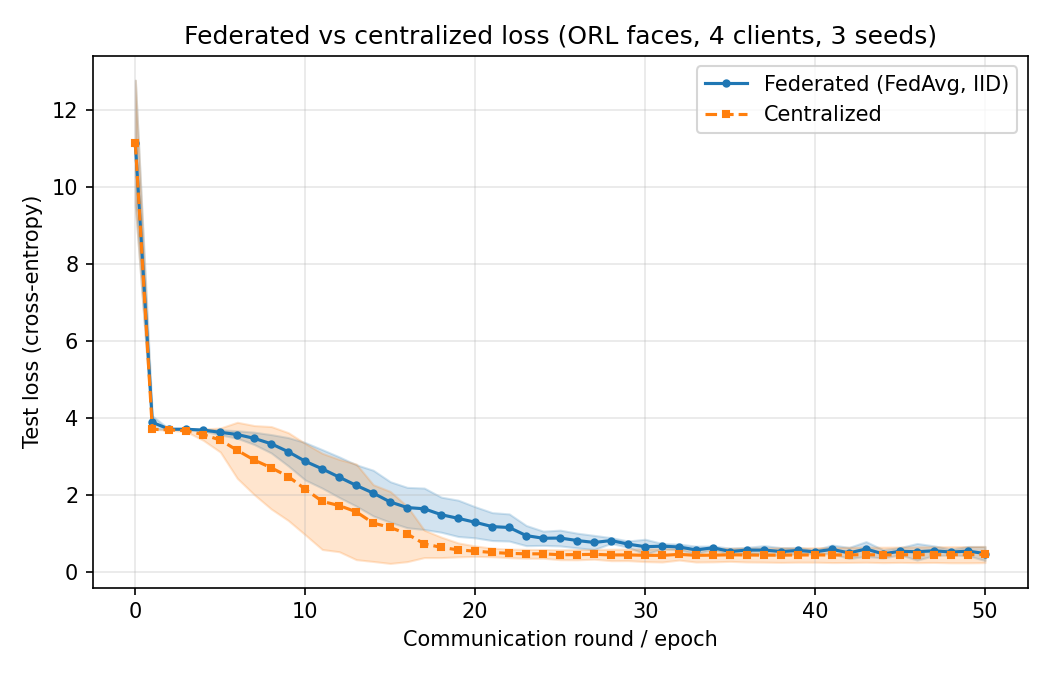
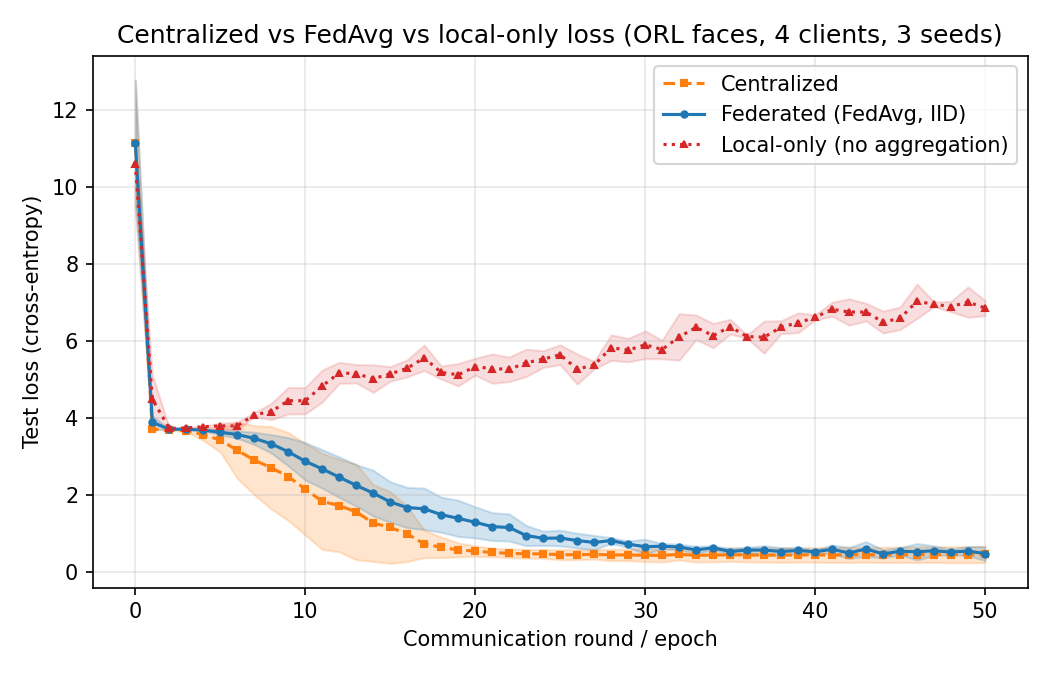
feat(fl): add a local-only lower bound to the convergence baselines
The convergence figure compared FedAvg only against centralized, which
shows FedAvg does no harm but not what it buys. Add train_local_only --
each client trains on its own shard and never aggregates -- as the lower
bound. The three baselines now bracket the value of federation:
centralized 0.91 >= FedAvg 0.89 >> local-only 0.53, so the ~36 pp
FedAvg-vs-local-only gap is the payoff of aggregation. fl_training.csv
gains local_accuracy/loss columns; the attack snapshots are unchanged.

diff --git a/src/federated.py b/src/federated.py
@@ -201,6 +201,74 @@ def train_centralized(
     return {"history": history, "state": {k: v.detach().cpu() for k, v in model.state_dict().items()}}
 
 
+def train_local_only(
+    num_rounds: int = 50,
+    num_clients: int = 4,
+    local_epochs: int = 1,
+    lr: float = 0.01,
+    device: torch.device | str | None = None,
+    batch_size: int = 8,
+    num_classes: int = 40,
+    img_size: int = 32,
+    seed: int = 0,
+    optimizer: str = "adam",
+    verbose: bool = True,
+) -> dict:
+    """Each client trains ONLY on its own shard and never aggregates.
+
+    This is the lower-bound baseline that quantifies the *value* of federation: a
+    participant who keeps its data local but also refuses to collaborate. Every
+    client starts from one shared init (the same kind the FedAvg server uses) and
+    runs the same per-round local training as in FedAvg, but the weights are never
+    averaged. We report the mean over clients of the global-test accuracy each
+    round, so the convergence figure can show ``centralized >= FedAvg >> local-only``
+    -- i.e. FedAvg recovers most of the centralized accuracy a lone client (with
+    only its 1/num_clients slice of the data) cannot reach on its own.
+    """
+    device = torch.device(device) if device is not None else get_device()
+    torch.manual_seed(seed)
+
+    full = load_orl_dataset(img_size=img_size)
+    train_set, test_set = train_test_split(full, seed=seed)
+    shards = split_iid(train_set, num_clients=num_clients, seed=seed)
+    test_loader = get_test_loader(test_set, batch_size=32)
+
+    clients = [
+        FLClient(
+            i, shard, LeNet, device,
+            batch_size=batch_size, num_classes=num_classes, optimizer=optimizer,
+        )
+        for i, shard in enumerate(shards)
+    ]
+    # One shared starting point for every client, so the only difference from
+    # FedAvg is the absence of aggregation.
+    init_state = {k: v.detach().cpu().clone() for k, v in LeNet(num_classes=num_classes).state_dict().items()}
+    for client in clients:
+        client.update_model(init_state)
+
+    def mean_metrics() -> tuple[float, float]:
+        accs, losses = [], []
+        for client in clients:
+            acc, loss = evaluate(client.model, test_loader, device)
+            accs.append(acc)
+            losses.append(loss)
+        return sum(accs) / len(accs), sum(losses) / len(losses)
+
+    history: list[dict] = []
+    acc, loss = mean_metrics()
+    history.append({"round": 0, "accuracy": acc, "loss": loss})
+    for rnd in range(1, num_rounds + 1):
+        for client in clients:
+            # No update_model(): each client keeps and extends its own weights.
+            client.train_one_round(local_epochs=local_epochs, lr=lr)
+        acc, loss = mean_metrics()
+        history.append({"round": rnd, "accuracy": acc, "loss": loss})
+        if verbose and (rnd % 5 == 0 or rnd == 1):
+            print(f"[local] round {rnd:2d} | mean client acc {acc:.4f} | loss {loss:.4f}")
+
+    return {"history": history}
+
+
 def run_federated_learning_he(
     num_rounds: int = 5,
     num_clients: int = 4,

diff --git a/experiments/run_fl.py b/experiments/run_fl.py
@@ -4,9 +4,11 @@ Usage:
     uv run python experiments/run_fl.py
 
 Three things are produced:
-  * Convergence  - FedAvg (IID) vs centralized, averaged over several seeds so the
-    curves carry a mean +/- std band (a single seed makes the two indistinguishable
-    and can even put FedAvg above centralized by test-set noise).
+  * Convergence  - centralized vs FedAvg (IID) vs local-only, averaged over several
+    seeds so the curves carry a mean +/- std band. The three bracket the value of
+    federation: centralized (data pooled, upper bound) >= FedAvg (data local,
+    updates averaged) >> local-only (data local AND never aggregated, lower bound).
+    The FedAvg-vs-local-only gap is what aggregation actually buys.
   * Non-IID      - FedAvg under an IID split vs a pathological label-partition split
     (each client owns a disjoint block of subjects), swept over the number of local
     epochs. This surfaces client drift: at one local epoch the two splits are
@@ -42,7 +44,12 @@ import torch
 
 sys.path.insert(0, str(Path(__file__).resolve().parent.parent))
 
-from src.federated import get_device, run_federated_learning, train_centralized
+from src.federated import (
+    get_device,
+    run_federated_learning,
+    train_centralized,
+    train_local_only,
+)
 
 NUM_ROUNDS = 50
 NUM_CLIENTS = 4
@@ -85,8 +92,15 @@ def _stack(histories: list[list[dict]], key: str) -> tuple[np.ndarray, np.ndarra
 
 
 def run_convergence(device) -> pd.DataFrame:
-    """FedAvg (IID) vs centralized over several seeds; also save seed-0 snapshots."""
-    fl_histories, central_histories = [], []
+    """FedAvg (IID) vs centralized vs local-only over several seeds; also save snapshots.
+
+    Three baselines bracket the value of federation: ``centralized`` (data pooled,
+    the upper bound), ``FedAvg`` (data stays local, updates are averaged), and
+    ``local-only`` (data stays local AND never aggregated, the lower bound -- mean
+    over clients each trained on its own 1/num_clients slice). The gap
+    centralized >= FedAvg >> local-only is exactly what FedAvg buys.
+    """
+    fl_histories, central_histories, local_histories = [], [], []
     snapshots_by_seed: dict[int, dict] = {}
     global_state = None
     for seed in SEEDS:
@@ -96,20 +110,28 @@ def run_convergence(device) -> pd.DataFrame:
             lr=LR, device=device, seed=seed, snapshot_rounds=snap_rounds, verbose=False,
         )
         central = train_centralized(num_epochs=NUM_ROUNDS, lr=LR, device=device, seed=seed, verbose=False)
+        local = train_local_only(
+            num_rounds=NUM_ROUNDS, num_clients=NUM_CLIENTS, local_epochs=LOCAL_EPOCHS,
+            lr=LR, device=device, seed=seed, verbose=False,
+        )
         fl_histories.append(fl["history"])
         central_histories.append(central["history"])
+        local_histories.append(local["history"])
         if seed in SNAPSHOT_SEEDS:
             snapshots_by_seed[seed] = fl["snapshots"]
         if seed == SEEDS[0]:
             global_state = fl["global_state"]
         print(f"[fl] seed {seed}: FL={fl['history'][-1]['accuracy']:.4f}  "
-              f"centralized={central['history'][-1]['accuracy']:.4f}")
+              f"centralized={central['history'][-1]['accuracy']:.4f}  "
+              f"local-only={local['history'][-1]['accuracy']:.4f}")
 
     rounds = [h["round"] for h in fl_histories[0]]
     fl_acc_m, fl_acc_s = _stack(fl_histories, "accuracy")
     fl_loss_m, fl_loss_s = _stack(fl_histories, "loss")
     c_acc_m, c_acc_s = _stack(central_histories, "accuracy")
     c_loss_m, c_loss_s = _stack(central_histories, "loss")
+    l_acc_m, l_acc_s = _stack(local_histories, "accuracy")
+    l_loss_m, l_loss_s = _stack(local_histories, "loss")
 
     df = pd.DataFrame({
         "round": rounds,
@@ -117,19 +139,23 @@ def run_convergence(device) -> pd.DataFrame:
         "fl_loss_mean": fl_loss_m, "fl_loss_std": fl_loss_s,
         "central_accuracy_mean": c_acc_m, "central_accuracy_std": c_acc_s,
         "central_loss_mean": c_loss_m, "central_loss_std": c_loss_s,
+        "local_accuracy_mean": l_acc_m, "local_accuracy_std": l_acc_s,
+        "local_loss_mean": l_loss_m, "local_loss_std": l_loss_s,
     })
     df.to_csv(METRICS / "fl_training.csv", index=False)
     print(f"[fl] wrote {METRICS / 'fl_training.csv'}")
 
     # Accuracy curve with mean +/- std bands.
     plt.figure(figsize=(7, 4.5))
+    plt.plot(rounds, c_acc_m, "--s", ms=3, color="tab:orange", label="Centralized (data pooled, upper bound)")
+    plt.fill_between(rounds, c_acc_m - c_acc_s, c_acc_m + c_acc_s, color="tab:orange", alpha=0.2)
     plt.plot(rounds, fl_acc_m, "-o", ms=3, color="tab:blue", label="Federated (FedAvg, IID)")
     plt.fill_between(rounds, fl_acc_m - fl_acc_s, fl_acc_m + fl_acc_s, color="tab:blue", alpha=0.2)
-    plt.plot(rounds, c_acc_m, "--s", ms=3, color="tab:orange", label="Centralized")
-    plt.fill_between(rounds, c_acc_m - c_acc_s, c_acc_m + c_acc_s, color="tab:orange", alpha=0.2)
+    plt.plot(rounds, l_acc_m, ":^", ms=3, color="tab:red", label="Local-only (no aggregation, lower bound)")
+    plt.fill_between(rounds, l_acc_m - l_acc_s, l_acc_m + l_acc_s, color="tab:red", alpha=0.15)
     plt.xlabel("Communication round / epoch")
     plt.ylabel("Test accuracy")
-    plt.title(f"Federated vs centralized accuracy (ORL faces, 4 clients, {len(SEEDS)} seeds)")
+    plt.title(f"Centralized vs FedAvg vs local-only (ORL faces, {NUM_CLIENTS} clients, {len(SEEDS)} seeds)")
     plt.ylim(0, 1.02)
     plt.grid(alpha=0.3)
     plt.legend()
@@ -139,13 +165,15 @@ def run_convergence(device) -> pd.DataFrame:
 
     # Loss curve with mean +/- std bands.
     plt.figure(figsize=(7, 4.5))
-    plt.plot(rounds, fl_loss_m, "-o", ms=3, color="tab:blue", label="Federated (FedAvg, IID)")
-    plt.fill_between(rounds, fl_loss_m - fl_loss_s, fl_loss_m + fl_loss_s, color="tab:blue", alpha=0.2)
     plt.plot(rounds, c_loss_m, "--s", ms=3, color="tab:orange", label="Centralized")
     plt.fill_between(rounds, c_loss_m - c_loss_s, c_loss_m + c_loss_s, color="tab:orange", alpha=0.2)
+    plt.plot(rounds, fl_loss_m, "-o", ms=3, color="tab:blue", label="Federated (FedAvg, IID)")
+    plt.fill_between(rounds, fl_loss_m - fl_loss_s, fl_loss_m + fl_loss_s, color="tab:blue", alpha=0.2)
+    plt.plot(rounds, l_loss_m, ":^", ms=3, color="tab:red", label="Local-only (no aggregation)")
+    plt.fill_between(rounds, l_loss_m - l_loss_s, l_loss_m + l_loss_s, color="tab:red", alpha=0.15)
     plt.xlabel("Communication round / epoch")
     plt.ylabel("Test loss (cross-entropy)")
-    plt.title(f"Federated vs centralized loss (ORL faces, 4 clients, {len(SEEDS)} seeds)")
+    plt.title(f"Centralized vs FedAvg vs local-only loss (ORL faces, {NUM_CLIENTS} clients, {len(SEEDS)} seeds)")
     plt.grid(alpha=0.3)
     plt.legend()
     plt.tight_layout()
@@ -158,8 +186,9 @@ def run_convergence(device) -> pd.DataFrame:
     n_snap = sum(len(s) for s in snapshots_by_seed.values())
     print(f"[fl] saved seed-{SEEDS[0]} model + {n_snap} round snapshots "
           f"across {len(snapshots_by_seed)} seeds (for the multi-seed leakage curve)")
-    print(f"[fl] convergence: FL={fl_acc_m[-1]:.4f}+/-{fl_acc_s[-1]:.4f}  "
-          f"centralized={c_acc_m[-1]:.4f}+/-{c_acc_s[-1]:.4f}")
+    print(f"[fl] convergence: centralized={c_acc_m[-1]:.4f}+/-{c_acc_s[-1]:.4f}  "
+          f"FL={fl_acc_m[-1]:.4f}+/-{fl_acc_s[-1]:.4f}  "
+          f"local-only={l_acc_m[-1]:.4f}+/-{l_acc_s[-1]:.4f}")
     return df
 
 